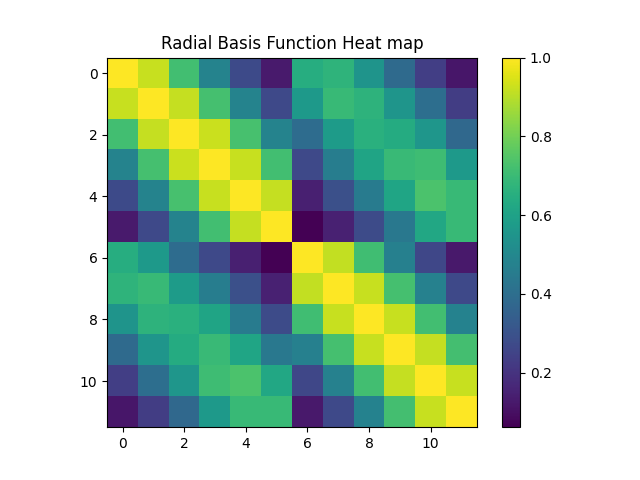
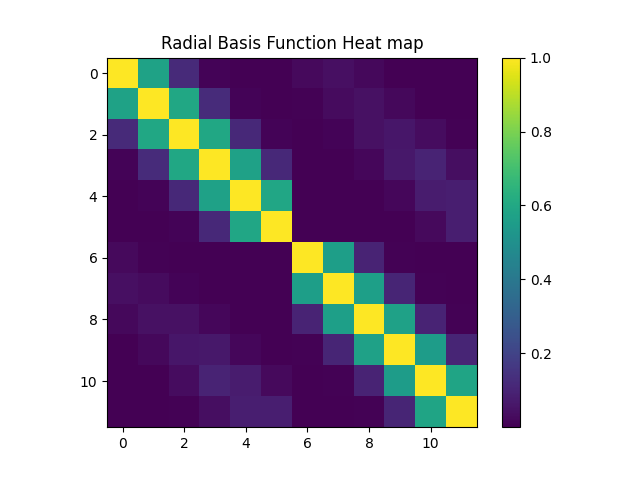
Force symmetry in similarity matrix.

diff --git a/tracking.py b/tracking.py
@@ -4,6 +4,8 @@ from scipy.spatial.distance import cdist
 from sklearn.neighbors import NearestNeighbors
 import networkx as nx
 
+np.random.seed(41)
+
 def create_hits(N, x, m, c, sigma, truth_color):
     truth_labels = np.full(N, truth_color)
     hits = (m*x + c) + np.random.normal(loc=0,scale=sigma,size=N)
@@ -61,7 +63,9 @@ def plot_matrix_heat_map(sim_matrix, matrix_type):
 def KNN(x, hit_coords, n, t1l, t2l):
     nbrs = NearestNeighbors(n_neighbors=n, algorithm='ball_tree').fit(hit_coords)
     distances, indices = nbrs.kneighbors(hit_coords)
-    knn_matrix = nbrs.kneighbors_graph(hit_coords).toarray()
+    neighbour_matrix = nbrs.kneighbors_graph(hit_coords).toarray()
+    
+    knn_matrix = ((neighbour_matrix + neighbour_matrix.T)>0).astype(int)
     
     distances = distances[:,1:]
     indices = indices[:,1:]
@@ -70,7 +74,7 @@ def KNN(x, hit_coords, n, t1l, t2l):
     pos = {i: tuple(hit_coords[i]) for i in range(len(hit_coords))}
     
     '''
-    Weighted Graph calculated using the a simple reciprocal type similarity.
+    Weighted Graph calculated using a simple reciprocal type similarity.
     G = nx.Graph()
     edges = []
 
@@ -101,7 +105,7 @@ def KNN(x, hit_coords, n, t1l, t2l):
 Num_hits = 6
 x = np.linspace(0,1,Num_hits)
 sigma_noise = 1e-2
-sigma_rbf = 0.5
+sigma_rbf = 0.2
 intsection_allow = False
 nearneighb_n = 3
 
@@ -116,4 +120,5 @@ plot_matrix_heat_map(RBF_matrix, 'Radial Basis Function')
 #plot_matrix_heat_map(get_distmatrix(hit_coords), 'Distance matrix')
 
 KNN_matrix = KNN(x, hit_coords, nearneighb_n, track1_labels, track2_labels)
+print(KNN_matrix)
 plot_matrix_heat_map(KNN_matrix, f'{nearneighb_n} NearestNeighbour')